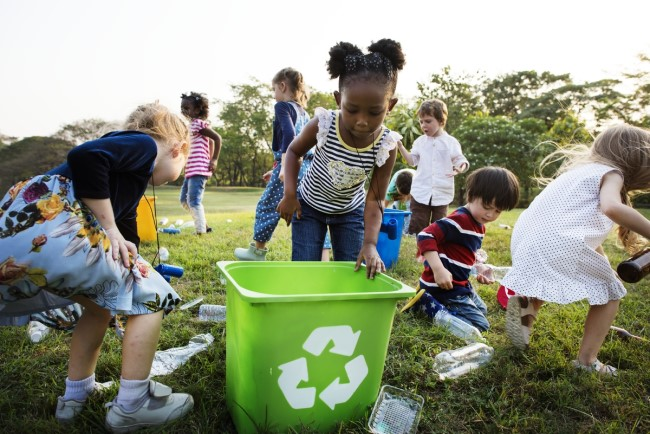
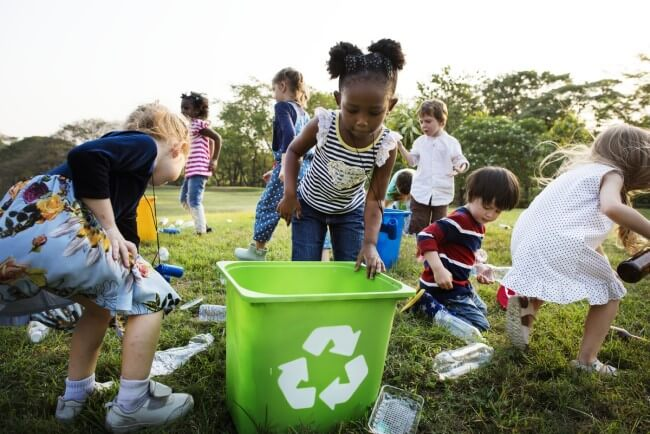
modify four images: hero-image, contact image, and recycling photos for a compressed version

Changed region(s): [[0.7692, 0.659, 0.8, 0.6889]]

diff --git a/index.html b/index.html
@@ -225,16 +225,15 @@
             <hr>
          </div>
          <div id="photos">
-            <img src="assets/images/children-pulling-game.jpg" alt="Group of kids pulling the rope in a game">
-            <img src="assets/images/girls-recycling.jpg" alt="two little girls carrying a recycling box full of plastic bottles">
-            <img src="assets/images/puppy-receiving-love.jpg" alt="black puppy being petted">
-            <img src="assets/images/grandpa-girl-watching-mobile.jpg" alt="Little girl teaching how to use a cellphone to a senior in a retirement house">
-            <img src="assets/images/kids-garden-edited.jpg" alt="Two kids doing gardening">
-            <img src="assets/images/puppy-resting.jpg" alt="little puppy resting in a cage">
-            <img src="assets/images/kids-recycling.jpg
-               " alt="Group of little kids recycling together plastic bottles">
-            <img src="assets/images/grandma-kid-cooking.jpg" alt="Older woman teaching to a boy how to peel potatoes in a kitchen">
-            <img src="assets/images/kids-playing-soccer-grass.jpg" alt="Group of kids playing soccer in grass">
+            <img src="assets/images/black-dog-red-ribbon.jpg" alt="Black dog with a red ribbon in his neck">
+            <img src="assets/images/boy-painted-hands-covering-face.jpg" alt="boy with colorful and painted hands covering his face">
+            <img src="assets/images/girl-playing-chess-senior-adult.jpg" alt="girl playing chess with grandpa">
+            <img src="assets/images/girls-holding-box-plastic-bottles.jpg" alt="Two girls carrying a box of recycled plastic bottles">
+            <img src="assets/images/kids-gardening.jpg" alt="Two kids doing gardening">
+            <img src="assets/images/kids-pulling-rope.jpg" alt="Kids pulling the rope in two teams">
+            <img src="assets/images/dogs-smiling.jpg" alt="Brown dog from shelter with orange ribbon smiling to the camera">
+            <img src="assets/images/group-kids-sitting-together-garden.jpg" alt="Group of kids sitting together smiling after playing soccer">
+            <img src="assets/images/kids-recycling-outside.jpg" alt="Group of kids recycling outside">
          </div>
       </section>
       <!--Form Section-->

diff --git a/assets/css/style.css b/assets/css/style.css
@@ -139,7 +139,7 @@ nav a:hover {
 #hero-container { 
     height: 380px;
     width: 100%;
-    background-image: url(../images/hero-image-kids-together.jpg);
+    background-image: url(../images/hero-image-kids-smiling-outside.jpg);
     background-repeat: no-repeat;
     background-size: cover;
     background-position: center;
@@ -389,7 +389,7 @@ tr:nth-child(odd) {
 #form-container {
     margin: 40px auto 0;
     width: 100%; 
-    background-image: url(../../assets/images/kids-spelling-word-team-with-cards-small.jpg);
+    background-image: url(../../assets/images/kids-spelling-word-team-with-cards.jpg);
     background-repeat: no-repeat;
     background-size: cover;
     background-position: center;
